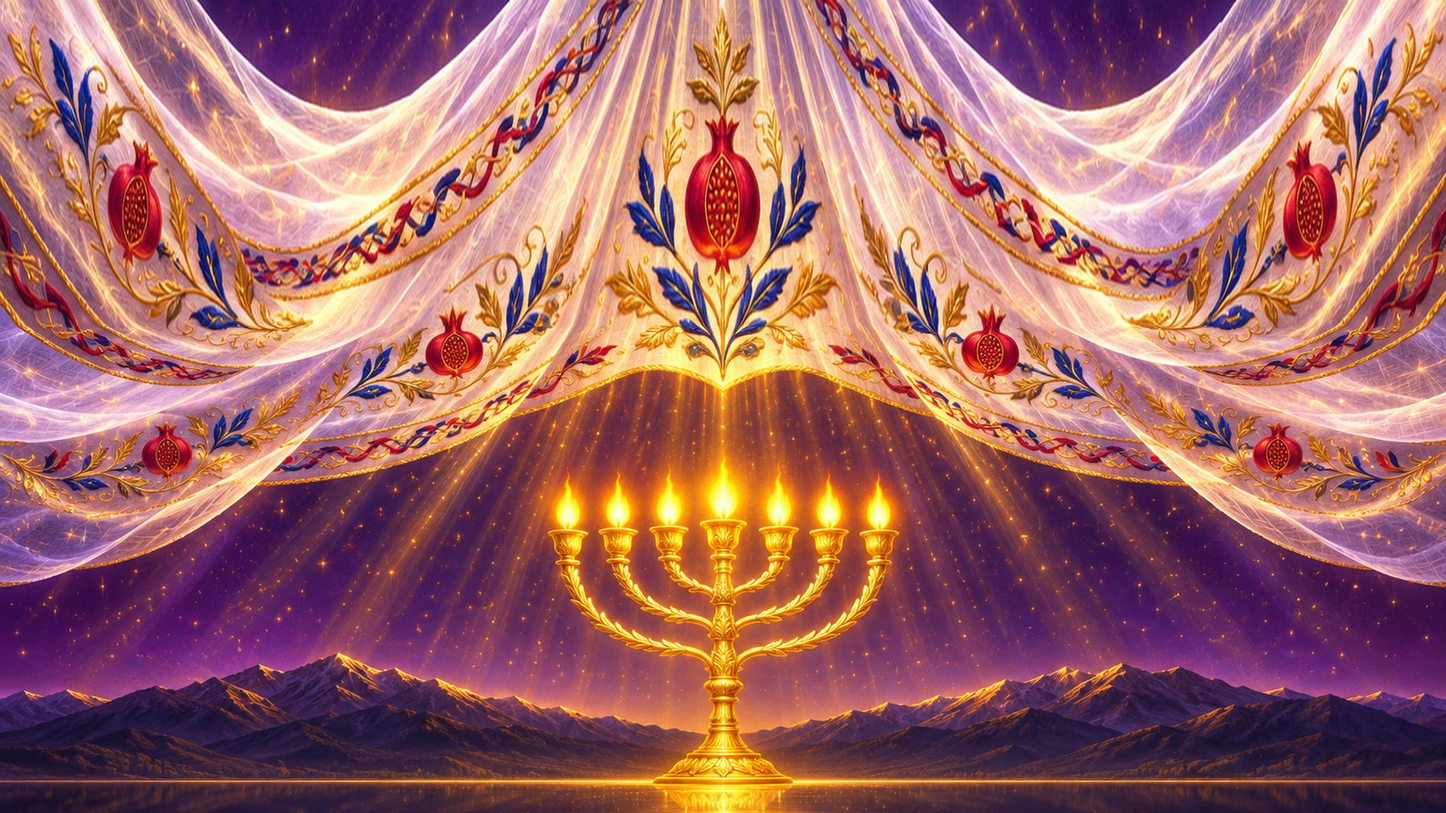
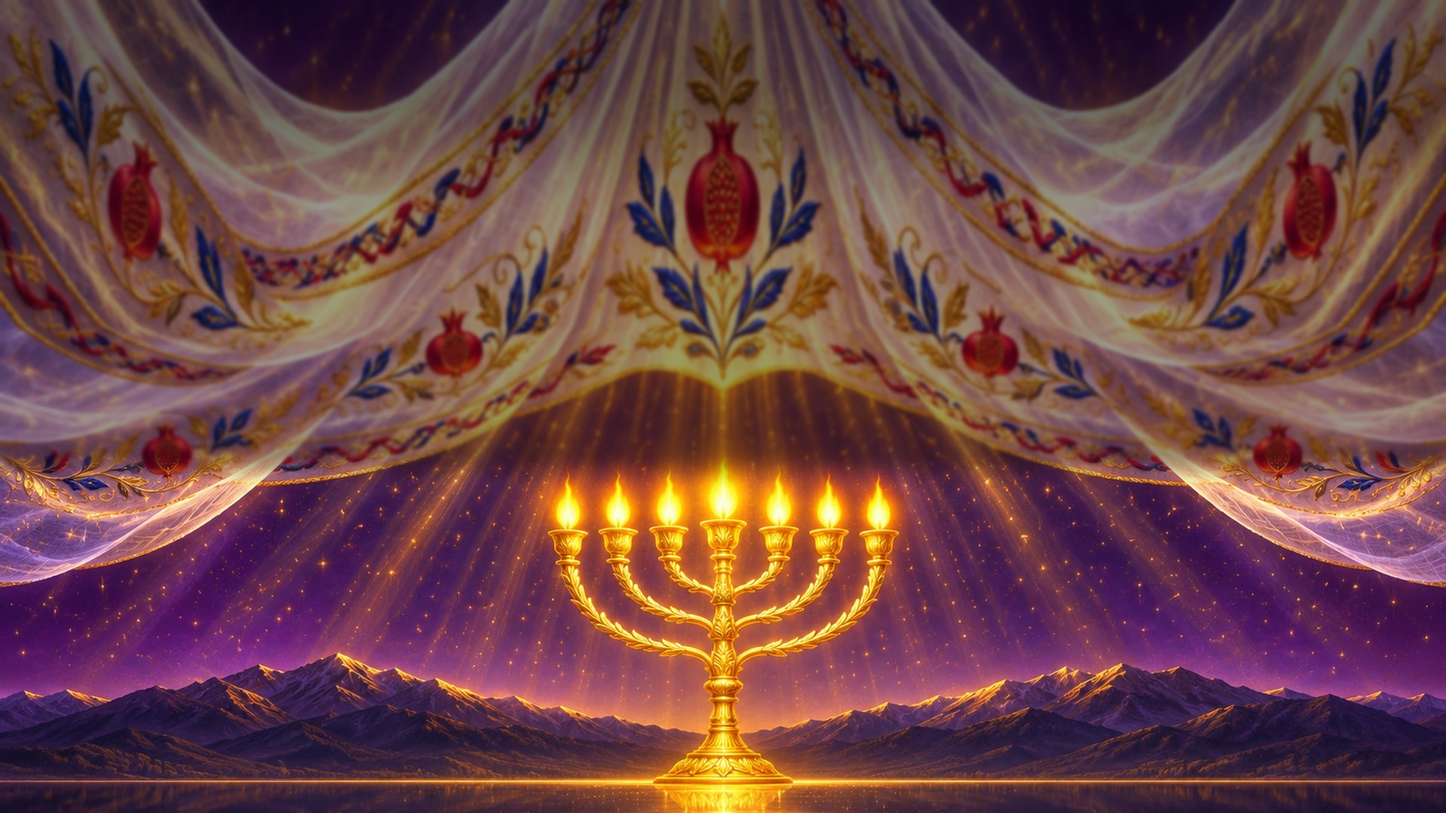
Song 08 promo v2: polish after round 2 review
Darker veil behind the arch and the end card, stronger card backing, calmer
painted lower thirds in scenes 1 and 3, scene 2 gain 0.6, gentler beam,
status line 8 corrected.

Claude-Session: https://claude.ai/code/session_01DSHsMeB7ain7qg3RYXYMEW

diff --git a/engine/songs/s08_favor_from_god.py b/engine/songs/s08_favor_from_god.py
@@ -210,24 +210,27 @@ SCENES = [
     # 1. royal lake with the glowing olive tree: slow push in to a wide symmetrical frame
     dict(image="assets/plates/s08/royal_lake_olive.jpg", t0=0.0, t1=21.2, fade_in=1.0, fade_out=2.0,
          zoom=(1.10, 1.03), pan=((0.0, 0.015), (0.0, 0.0)), water=True, water_line=0.40, water_strength=0.4,
+         calm_gain=0.45,
          gain=Track([(0, 1.0), (6.0, 1.0), (9.0, 0.80), (TOTAL, 0.80)])),
     # 2. festival lake under crimson and gold embroidered aurora: a ring of warm light runs across the water once
     #    the Compliment's words have reached their star; calmer than the first scene (low gain, slow zoom)
     dict(image="assets/plates/s08/festival_embroidered_aurora.jpg", t0=19.2, t1=31.0, fade_in=2.0, fade_out=2.5,
          transition="ripple", ripple_from=(0.5, 0.40), zoom=(1.03, 1.06), water=True, water_line=0.426,
-         water_strength=0.4, gain=Track([(0, 0.75), (21.0, 0.70), (TOTAL, 0.70)])),
-    # 3. heaven opens: clouds parted, a column of gold pouring onto the lake (after the fragment has gone)
-    dict(image="assets/plates/s08/heaven_opens.jpg", t0=28.5, t1=41.5, fade_in=2.5, fade_out=2.5,
-         zoom=(1.03, 1.07), water=True, water_line=0.296, water_strength=0.4,
-         gain=Track([(0, 0.85), (29.5, 0.85), (31.0, 0.70), (38.7, 0.70), (TOTAL, 0.55)])),
+         water_strength=0.4, gain=Track([(0, 0.65), (21.0, 0.60), (TOTAL, 0.60)])),
+    # 3. heaven opens: clouds parted, a column of gold pouring onto the lake (after the fragment has gone);
+    #    heaven_opens_calm.jpg darkens the painted column's reflection in the centre of the lower third
+    dict(image="assets/plates/s08/heaven_opens_calm.jpg", t0=28.5, t1=41.5, fade_in=2.5, fade_out=2.5,
+         zoom=(1.03, 1.07), water=True, water_line=0.296, water_strength=0.3, calm_gain=0.40,
+         gain=Track([(0, 0.65), (38.7, 0.65), (TOTAL, 0.55)])),
     # 4. the velvet path home: deep purple night, a narrow path of light to the horizon (a plain soft fade)
     dict(image="assets/plates/s08/velvet_path_home.jpg", t0=39.0, t1=52.1, fade_in=2.5, fade_out=2.5,
          zoom=(1.03, 1.08), water=True, water_line=0.426, water_strength=0.4),
     # 5. the seven-branched lampstand under the embroidered veil, reframed (lampstand_veil_low.jpg: the veil's top
-    #    band stretched so the whole lampstand sits below the end card, candle tops at about 0.58 from the top)
+    #    band stretched so the whole lampstand sits below the end card, candle tops at about 0.58 from the top;
+    #    the veil is darkened, most behind the arch, and softened behind the end card, the lampstand untouched)
     dict(image="assets/plates/s08/lampstand_veil_low.jpg", t0=49.6, t1=61.0, fade_in=2.5, fade_out=0.0,
          zoom=(1.04, 1.0), water=True, water_line=0.04, water_strength=0.3,
-         gain=Track([(0, 0.95), (51.0, 0.85), (53.0, 0.72), (TOTAL, 0.72)])),
+         gain=0.62),
 ]
 
 F = "assets/figures/"
@@ -256,13 +259,13 @@ FIGURES = [
 ]
 
 # Heaven's column of gold during the thanksgiving, with rising gold dust (only after the fragment has gone)
-BEAM = Track([(0, 0.0), (28.5, 0.0), (30.5, 0.30), (38.5, 0.30), (41.0, 0.0)])
+BEAM = Track([(0, 0.0), (28.5, 0.0), (30.5, 0.22), (38.5, 0.22), (41.0, 0.0)])
 BEAM_FROM = (0.5, 1.02)
 BEAM_TO = (0.5, 0.30)
 BEAM_WIDTH = (0.02, 0.07)
 BEAM_COLOR = "#ffd88a"
-TEXT_SHADOW = Track([(0, 1.2), (28.5, 1.2), (30.5, 1.6), (40.5, 1.6), (42.0, 1.3), (50.0, 1.3), (52.0, 1.7),
-                     (TOTAL, 1.7)])
+TEXT_SHADOW = Track([(0, 1.2), (28.5, 1.2), (30.5, 1.6), (40.5, 1.6), (42.0, 1.3), (49.5, 1.3), (50.5, 2.0),
+                     (TOTAL, 2.0)])
 
 # Nine lights on an arch over the stage, one for each expression
 STAR_POS = []

diff --git a/project-docs/status/08.md b/project-docs/status/08.md
@@ -5,7 +5,7 @@
 - Stars lit at start: 1, 3, 4, 5, 6, 7, 8, 9 (star 2 dark). In this song: star 9 Compliment shines again (flare and a fresh ring), star 2 Gratitude lit for the first time. Lit at end: all nine; the arch is complete and glows together as star 2 arrives.
 - Opening frame (agreed with song 07): home lake at deep night, perfectly still, wide eye-level view just above the water, warm horizon star at center, sky navy #0B1530, arch 1 and 3 to 9 lit (star 2 dark), nothing carried. Song 07's gate of light fades out completely during its closing hold.
 - Closing frame (agreed with song 09): home lake still and golden, wide eye-level view, first rose-gold dawn low behind the mountains, soft warm glow at the center of the horizon, all nine arch stars lit, no people, nothing carried. Song 09's piano intro cools it to pre-dawn indigo.
-- Promo: guide recording 1:01.5 to 2:01.5 (princess line, Compliment, bridegroom and bride, Gratitude, pure soul, lampstand). Clip audio/promo/s08.mp3, song file engine/songs/s08_favor_from_god.py, branch promo/s08. Uses the engine's current effects only: it does not yet show people of light acting out the expressions or this song's signature effects (swan, lampstand, embroidered curtain).
+- Promo: guide recording 1:01.5 to 2:01.5 (princess line, Compliment, bridegroom and bride, Gratitude, pure soul, lampstand). Clip audio/promo/s08.mp3, song file engine/songs/s08_favor_from_god.py, branch promo2/s08 (pull request 22). Promo v2 (below): five painted scenes, people of light act out both expressions (Compliment and Gratitude) with the full campaign words, plus the swan, the bridegroom and bride, and Heavenly Mother only from behind; signature effects: heaven opening with gold, the swan, the lampstand, the embroidered veil. The first promo (v1, pull request 13) used the engine's earlier effects only.
 - Promo status: first stills checked (run 43536767352). Merged pull request 3 engine fixes, the two-line end card and the royal festival look; stills re-rendered four times to reach the look (final sheet Status/08-stills.jpg, runs 43539526649 and 43540002254); final video rendered and checked (run 43540005937): 60 s, 1920x1080, music present, frames checked at 3, 16, 34, 44 and 57 s. Copied to Videos/08 Out of Heaven, Favor From God/08 Out of Heaven, Favor From God - 1 Minute Promo.mp4. Pull request: https://github.com/lovelaceaml-hub/concert-backdrops/pull/13
 - Design doc: https://docs.google.com/document/d/1cbYwG0Hu8S1ejkXmsiAJDWNyD-qHqz7lFVjKeoXXEu0/edit (version 3, continuity pass and promo section). Text copy: Designs/text/08 Out of Heaven, Favor From God.md
 
